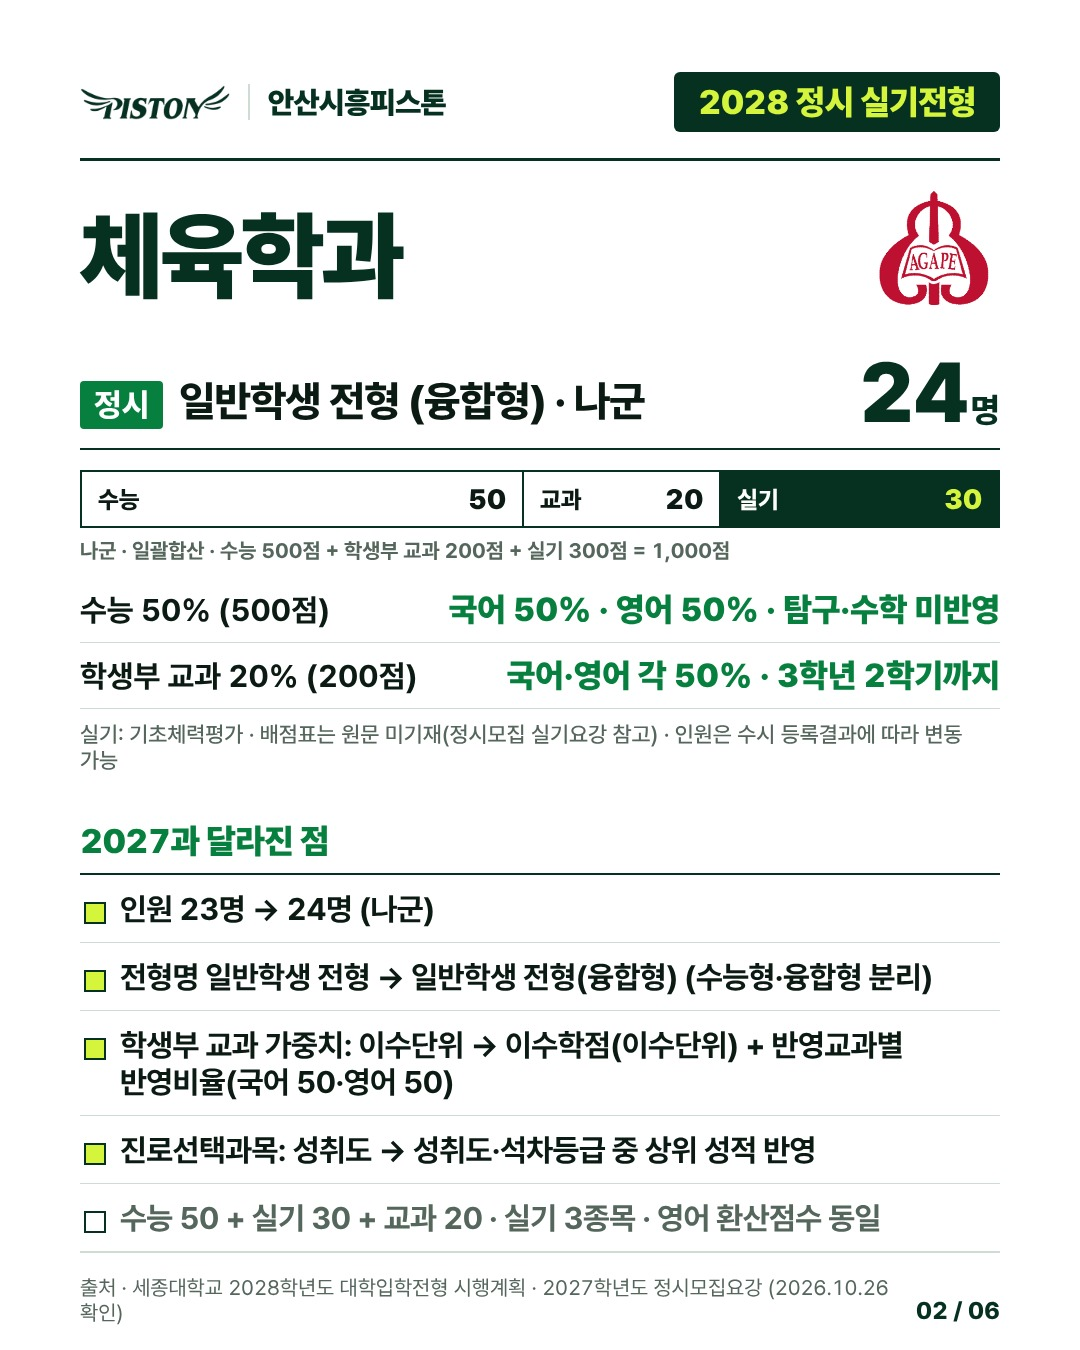
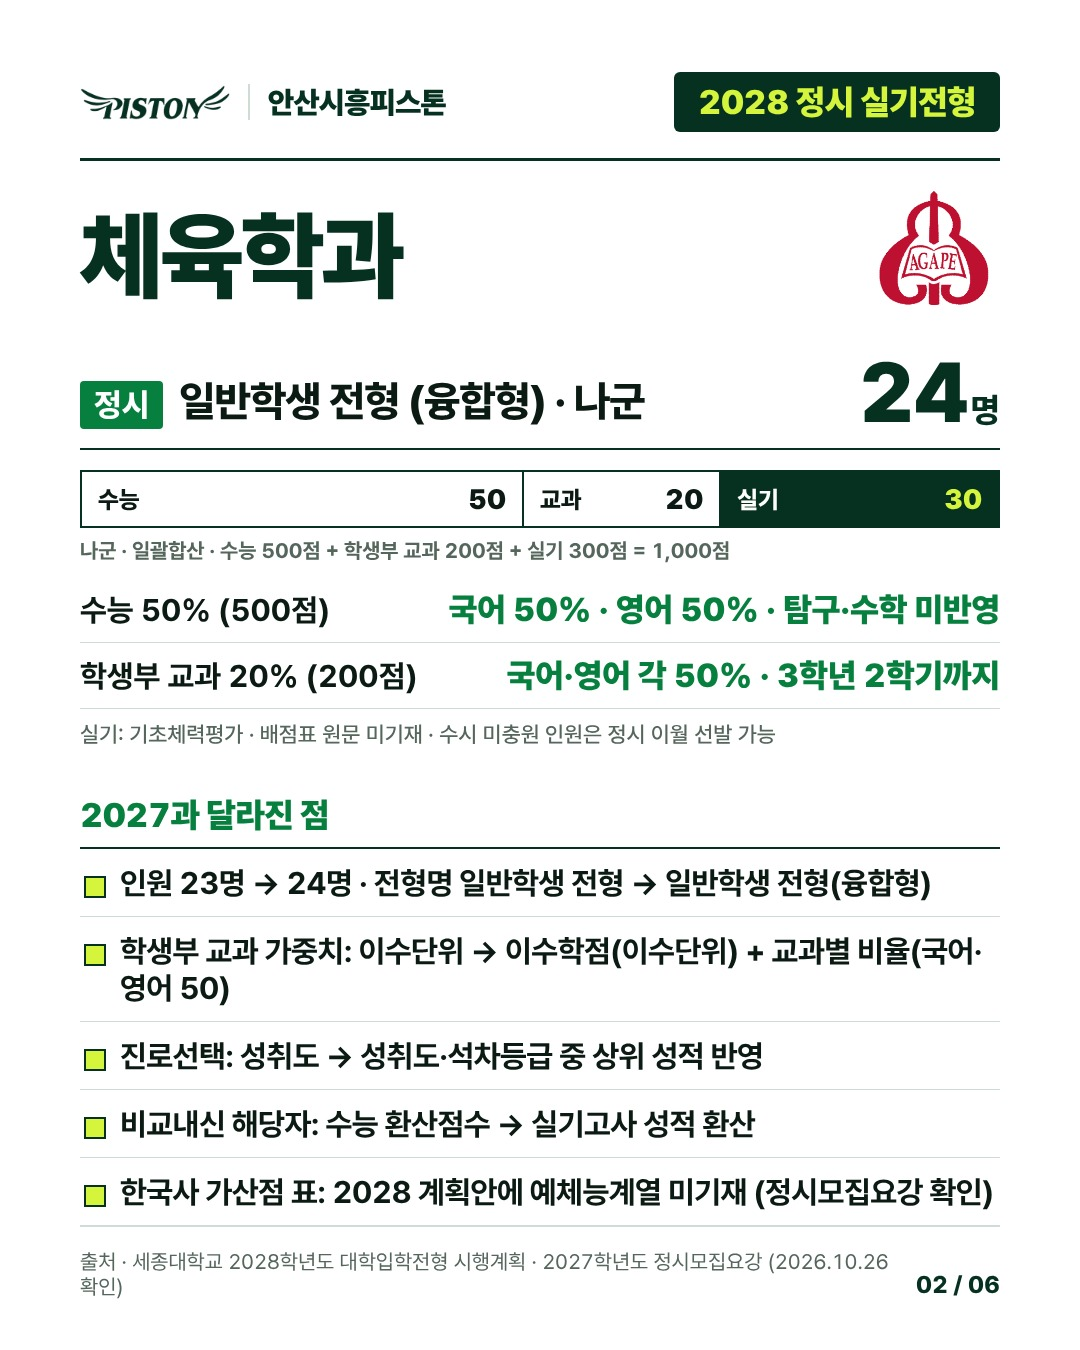
세종대 정시 카드 검수 반영
Claude-Session: https://claude.ai/code/session_01EGTn7G8nWP1yv5M2jqmoFb

Changed region(s): [[0.0611, 0.56, 0.9167, 0.9956], [0.3056, 0.5289, 0.8861, 0.56], [0.8556, 0.9333, 0.9167, 0.9956]]

diff --git a/social/out/sejong-jeongsi-jeongsi/factcheck.md b/social/out/sejong-jeongsi-jeongsi/factcheck.md
@@ -1,0 +1,95 @@
+# 세종대 정시 카드 원문 대조 검수 (sejong-jeongsi-jeongsi)
+
+- 검수일: 2026-10-27 (독립 검수, 수정 없음)
+- 대상: data/sejong-jeongsi.json, post-1~6.jpg, story.jpg, blog.md, caption.txt(=data/caption-sejong-jeongsi-jeongsi.txt, 말미 개행 1개 외 동일)
+- 기준 원문: 세종대학교 2028학년도 대학입학전형 시행계획(PDF 27쪽, 표기 쪽수=PDF 페이지) / 2027학년도 정시모집요강(PDF 71쪽). 두 PDF 텍스트를 직접 열어 대조함.
+- 이미지 확인: post-1~6, story 모두 열어 실제 글자 확인. 잘림·넘침·겹침 없음(1·4·5장 하단 출처 문구는 2줄로 줄바꿈되나 잘리지 않음).
+
+## 최종 판정: 불합격 (수치·표 값 불일치 0건 / 누락 2건 + 표현 정정 3건)
+
+수치(인원·비율·배점·환산표·가산점)는 전부 원문과 일치한다. 불합격 사유는 체육학과에 해당하는 변경사항 누락 2건과, 원문과 말이 다른 문구 3건이다.
+
+## 1. 값 대조표
+
+| 항목 | 카드 값 | 원문 값 | 원문 위치 | 판정 |
+|---|---|---|---|---|
+| 모집단위·군 | 체육학과 나군 | 나군 체육학과 | 2028계획 p23(나군 행), p4, p7 | 일치 |
+| 2028 모집인원 | 24명 | 24 | 2028계획 p4, p7 | 일치 |
+| 2027 모집인원 | 23명 | 23 | 2027요강 p3, p5 | 일치 |
+| 변경 방향 | 23명 → 24명 | 2027 23 → 2028 24 | 위 두 곳 | 일치 |
+| 전형명 | 일반학생 전형(융합형) | 일반학생 전형(융합형) 아래 체육학과 | 2028계획 p4, p20, p23 | 일치 |
+| 전형명 변경 전 | 일반학생 전형 | 수능 일반학생 전형(체육학과 포함) | 2027요강 p3, p11 | 일치 |
+| 수능형·융합형 분리 | 분리 | 전형 분리 및 신설 | 2028계획 p3 | 일치 |
+| 반영비율 | 수능50 / 교과20 / 실기30 | 50% / 20% / 30% | 2028계획 p4, p23 | 일치 |
+| 전형총점 | 1,000점 (500+200+300) | 1,000 / 수능 500 / 교과 200 / 실기 300 | p23 / p24 / p26 / p25 | 일치 |
+| 일괄합산 | 일괄합산 | 일괄합산 | p23 | 일치 |
+| 수능 반영 | 국어50·영어50, 탐구·수학 미반영 | 50% - 50% - (500점) | p24 | 일치 |
+| 수능 산식 | 국어 (표준점수÷200)×배점 / 영어 (등급별 환산점수÷200)×배점 | 동일 | p24 | 일치 |
+| 영어 환산 1~9등급 | 200/195/190/185/170/150/120/100/0 | 인문·예체능 행 동일 | 2028계획 p24, 2027요강 p47 | 일치 ("2027·2028 동일" 표기도 맞음) |
+| 학생부 반영교과 | 국어·영어 각 50%, 3학년 2학기까지 | 국어 50% 영어 50%, 3학년 2학기까지 | p26 | 일치 |
+| 학생부 요소별 | 공통·일반선택 80% + 진로선택 20%, 전 학년 평균 | 동일 | p26 | 일치 |
+| 가중치 변경 | 이수단위 → 이수학점(이수단위)+반영교과별 반영비율(국어50·영어50) | 이수단위 → 이수학점(이수단위), 반영교과별 반영비율 / 예체능 국어50 영어50 | p3, p26 | 일치 |
+| 진로선택 변경 | 성취도 → 성취도·석차등급 중 상위 성적 반영 | 변경 전 성취도 → 변경 후 석차등급 또는 성취도(상위) | p3, p26 | 일치 (단, 아래 정정 3 참고) |
+| 교과 변환점수 | 1000/990/980/950/900/800/700/500/0 (2027) | 동일 | 2027요강 p48 | 일치 |
+| 진로 성취도 변환 | A→1 B→3 C→5 (변환 1000/980/900) | 동일 | 2027요강 p48 | 일치 (조건 누락, 정정 3) |
+| 2028 교과 환산표 | 2028 정시모집요강에 공지(계획안 미기재) | 환산점수표는 2028 정시모집요강에 공지 | p26 | 일치 |
+| 출결가산점 | 20/17.5/15/12.5/10/7.5/5/2.5/0 (3일 이하~25일 이상) | 동일 | 2028계획 p26, 2027요강 p48 | 일치 ("2027·2028 동일" 맞음) |
+| 출결 대상 | 예체능계열(창의소프트학부 제외) | 동일 | p26, p4 | 일치 |
+| 출결 비고 | 3회당 미인정 결석 1회(소수점 이하 절사) / 산출 불가자 실기고사 성적 환산(소수점 둘째자리 절사) | 동일. 2028 원문은 "실기고사 성적 또는 입상실적 점수" | p26 | 일치 (체육학과는 실기만 해당, 입상실적은 음악·무용·영화 대상) |
+| 실기 종목 3개 | 제자리 멀리뛰기·메디신볼 던지기·20M 왕복달리기 | 동일 (2027은 제자리멀리뛰기·메디신볼 던지기·20m 왕복달리기) | 2028계획 p25, 2027요강 p16 | 일치 |
+| 실기 배점표 | 원문 미기재(정시모집 실기요강 참고) | "실기고사 상세 내용은 2028학년도 정시모집 실기요강 참고", 계획안에 종목별 배점 없음 | p25 | 일치 (처리 적절. 임의 배점을 넣지 않은 것이 맞음) |
+| 실기 반영 | 실기 30%, 300점 | 30%, 300점 | p25 | 일치 |
+| 수시 실기 전형 | 카드·블로그·캡션에 언급 없음(정시 한정 표기) | 아래 4번 참고 | | 카드는 정상, 제작 메모 판단은 오류 |
+
+## 2. 누락 (체육학과에 걸린 원문 변경, 카드에 없음)
+
+| 번호 | 원문 내용 | 원문 위치 | 판정 |
+|---|---|---|---|
+| 누락 1 | 예체능계열 비교내신 반영방법 변경. 2027: 2024년 2월 이전 졸업자 등은 수능 영역별 반영비율로 산출한 점수를 학생부 반영비율로 환산. 2028: 2025년 2월 이전 졸업자 등은 실기고사 성적을 학생부 반영비율로 환산 (음악·무용·영화예술은 입상실적 환산). 대상자 구분은 검정고시·외국고 등 동일 | 2028계획 p26 3항 / 2027요강 p48 3항 | 누락. 재수생·검정고시생에 직접 영향 |
+| 누락 2 | 한국사 가산점. 2027 표에는 "자유전공학부, 인문계열, 자연계열, 예체능계열(군계약학과 제외)"에 10/10/10/9.8/9.6/9.4/9.2/9.0/8.8. 2028 계획안 표는 "자유전공학부, 인문계열, 자연계열(군계약학과 제외)"만 있고 예체능계열이 없음. 2028 변경사항(p3)에는 설명 없음 | 2028계획 p24 / 2027요강 p47 | 누락. 폐지라고 단정할 수 없으므로 "2028 계획안 한국사 가산점 표에 예체능계열 미기재(2027은 포함), 정시모집요강 확인"으로 쓸 것 |
+
+참고: 한국사 때문에 카드의 기존 문장이 틀리게 되는 곳은 없다(카드는 한국사를 언급하지 않음). 다만 "달라진 점" 목록이 완전하지 않게 된다.
+
+## 3. 원문과 말이 다른 문구 (정정 필요)
+
+| 번호 | 위치 | 카드 문구 | 원문 | 조치 |
+|---|---|---|---|---|
+| 정정 1 | post-2 하단 주석, blog.md, JSON note | 인원은 수시 등록결과에 따라 변동 가능 | 수시모집 미충원으로 인하여 최종 선발하지 못한 인원은 정시모집 전형으로 이월하여 선발할 수 있음 (2028계획 p7) | "수시모집 미충원 인원은 정시로 이월되어 선발될 수 있음"으로 교체 |
+| 정정 2 | caption 마지막 ※ 줄 | 모집인원은 수시모집 등록결과에 따라 정시에서 변동될 수 있어요 | 위와 동일 | 정정 1과 같은 표현으로 교체 |
+| 정정 3 | post-4 하단 주석, blog.md, JSON notes | 진로선택 성취도(2027): A→1등급·B→3등급·C→5등급 변환 | 2027: 석차등급이 부여되지 않은 진로선택과목은 성취도를 등급으로 변환 (2027요강 p48). 2028 계획안 p3의 변경 전 칸은 "성취도"로만 적혀 있어 두 원문 표현이 다름 | "석차등급 미부여 시 성취도 A→1등급·B→3등급·C→5등급 변환(2027)"으로 조건 명시 |
+| 정정 4 | story.jpg 하단 버튼 | 반영비율·배점은 게시물에서 | 게시물 어디에도 실기 종목별 배점표는 없음(원문 미기재) | "반영비율은 게시물에서"로 변경 (배점 삭제) |
+
+## 4. 수시 실기 전형 판단 (의뢰 항목 5)
+
+제작 쪽 판단 "수시 실기 전형 없음"은 틀렸다. 2028 계획안에는 수시 체육학과 예체능특기자 전형이 있다.
+- 체육학과(골프·태권도·리듬체조·에어로빅체조): 실기 60% + 입상실적 20% + 학생부교과 20%, 10명, 수능최저 없음 (p4, p15, p16)
+- 체육학과(축구): 입상실적 55% + 학생부교과 45%, 2명 (p4, p15)
+- 수시 체육학과 모집인원 12명 (p6)
+
+카드·블로그·캡션은 모두 "정시"로 한정해서 쓰고 "수시에는 실기 전형이 없다"는 문장은 없으므로 카드 자체는 거짓이 아니다. 앞으로 "수시 실기 없음"류 문구를 넣으면 안 된다. 2027 수시 요강은 이번에 열지 않아 수시 변경 여부는 확인하지 않았다.
+
+## 5. 로고 (의뢰 항목 7)
+
+schools/sejong.png는 세종대 상징(책 속에 AGAPE 글자가 있는 문양)이며, "세종대학교" 같은 글자 워드마크는 붙어 있지 않다. 1장에는 크게, 2~5장과 스토리에는 우측 상단에 작게 들어가 있고 잘림은 없다. AGAPE는 상징 문양 자체의 구성 요소라 지울 수 없다. "글자 없는 심볼" 원칙의 취지(대학명 워드마크 배제)에는 맞다. 글자(AGAPE)까지 없어야 한다는 뜻이면 원장님 확인이 필요하다.
+
+## 6. 추측성 표현·기타 (의뢰 항목 6)
+
+- '올해' 표기 없음. 캡션은 2028학년도 기준, 2027 대비 변경점 중심이라 저장된 캡션 규칙에 맞음.
+- '예상·유리·합격 가능·발표 전' 등 추측 표현 없음.
+- post-6 "같은 성적, 다른 결과" 홍보 문구는 원문 사실이 아닌 브랜드 슬로건이다. 수치 주장은 아니라 오류로 세지 않았다.
+- 비교 항목: 3~5장 하단 여백이 크지만 한 장 규칙·잘림 기준에는 문제 없음. post-6만 쪽 표기가 "6 / 6"으로 다른 장의 "01 / 06"과 다름(사소).
+
+## 7. 고칠 목록 (재검수 대상)
+
+1. 누락 1: 비교내신 변경 추가 (2번 줄 변경점 또는 별도 카드)
+2. 누락 2: 한국사 가산점 표에 예체능계열 미기재 사실 추가 (단정 표현 금지)
+3. 정정 1·2: "수시 등록결과" → "수시모집 미충원 이월" (post-2, blog.md, JSON, caption)
+4. 정정 3: 진로선택 성취도 변환에 "석차등급 미부여 시" 조건 명시 (post-4, blog.md, JSON)
+5. 정정 4: story "반영비율·배점은 게시물에서" → 배점 삭제
+6. 수정 후 이미지 재렌더, 변경분 포함해 처음부터 재검수
+
+두 번 연속 불합격이면 approved: false로 대기열에 두고 원장님께 보고. 이번이 몇 번째 검수인지는 이 검수자가 알 수 없다.
+
+## 재검수 (수정 항목만, 2026-10-27)
+누락 2건(비교내신 변경, 한국사 가산점 표 예체능 미기재) 카드 post-2 반영 · 이월 문구 정정(post-2/blog/caption) · post-4 "석차등급 미부여 시" 조건 추가 · story "배점" 삭제 → 재렌더, 이미지 확인.
+최종 판정: 통과 (로고 AGAPE 글자는 세종대 상징 문양의 일부)

diff --git a/social/out/sejong-jeongsi-jeongsi/blog.md b/social/out/sejong-jeongsi-jeongsi/blog.md
@@ -11,17 +11,17 @@
 ### 정시 일반학생 전형 (융합형) · 나군 — 24명
 - 반영비율: 수능 50% + 교과 20% + 실기 30% (나군 · 일괄합산 · 수능 500점 + 학생부 교과 200점 + 실기 300점 = 1,000점)
 - 실기종목: 제자리 멀리뛰기 배점 원문 미기재, 메디신볼 던지기 배점 원문 미기재, 20M 왕복달리기 배점 원문 미기재
-- 실기: 기초체력평가 · 배점표는 원문 미기재(정시모집 실기요강 참고) · 인원은 수시 등록결과에 따라 변동 가능
+- 실기: 기초체력평가 · 배점표 원문 미기재 · 수시 미충원 인원은 정시 이월 선발 가능
 
 [이미지: post-2.jpg]
 
 ## 2027학년도와 달라진 점
 **체육학과**
-- 인원 23명 → 24명 (나군)
-- 전형명 일반학생 전형 → 일반학생 전형(융합형) (수능형·융합형 분리)
-- 학생부 교과 가중치: 이수단위 → 이수학점(이수단위) + 반영교과별 반영비율(국어 50·영어 50)
-- 진로선택과목: 성취도 → 성취도·석차등급 중 상위 성적 반영
-- 수능 50 + 실기 30 + 교과 20 · 실기 3종목 · 영어 환산점수 동일
+- 인원 23명 → 24명 · 전형명 일반학생 전형 → 일반학생 전형(융합형)
+- 학생부 교과 가중치: 이수단위 → 이수학점(이수단위) + 교과별 비율(국어·영어 50)
+- 진로선택: 성취도 → 성취도·석차등급 중 상위 성적 반영
+- 비교내신 해당자: 수능 환산점수 → 실기고사 성적 환산
+- 한국사 가산점 표: 2028 계획안에 예체능계열 미기재 (정시모집요강 확인)
 
 
 
@@ -53,7 +53,7 @@
 | 2027 | 1000 | 990 | 980 | 950 | 900 | 800 | 700 | 500 | 0 |
 
 ※ 2028 시행계획: 교과 환산점수표는 2028학년도 정시모집요강에 공지(계획안 미기재)
-※ 진로선택 성취도(2027): A→1등급 · B→3등급 · C→5등급 변환 / 2028: 성취도·석차등급 중 상위 성적 반영
+※ 진로선택 성취도(2027, 석차등급 미부여 시): A→1등급 · B→3등급 · C→5등급 변환 / 2028: 성취도·석차등급 중 상위 성적 반영
 
 [이미지: post-4.jpg]
 
